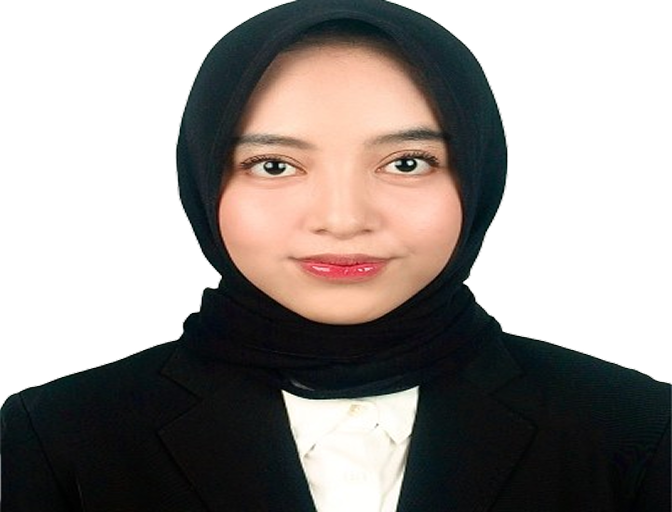
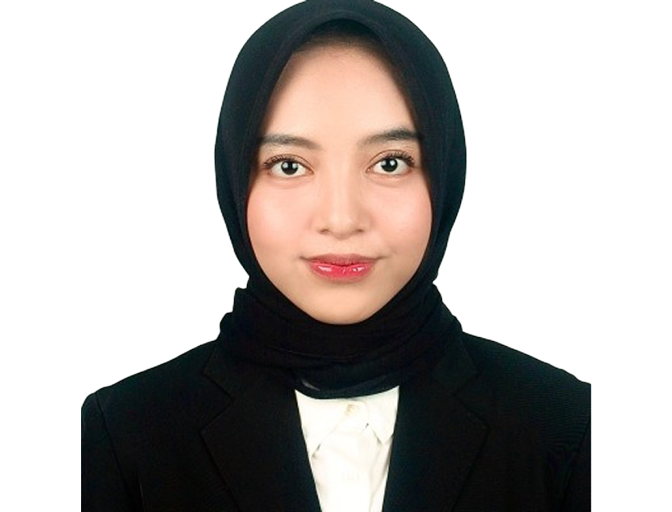
Perbaikan Mobile Page

diff --git a/src/components/home/PublishedAndPartnership.tsx b/src/components/home/PublishedAndPartnership.tsx
@@ -228,10 +228,10 @@ const PublishedAndPartnership: React.FC = () => {
       <div className="hidden md:block">
         <div className="space-y-3">
           <div className="flex flex-col items-center">
-            <h2 className="text-3xl md:text-4xl font-semibold text-[#1E5BA8] font-['Poppins']">
+            <h2 className="text-3xl md:text-4xl font-semibold text-[#262626] font-['Poppins']">
               Partnership With
             </h2>
-            <div className="w-72 h-1 bg-[#AFC6FF] rounded-full mt-2.5"></div>
+            <div className="w-72 h-1 bg-[#474d5d] rounded-full mt-2.5"></div>
           </div>
           <div className="relative overflow-hidden">
             <div className="carousel-container">
@@ -255,10 +255,10 @@ const PublishedAndPartnership: React.FC = () => {
         {false && (
           <div className="space-y-3">
             <div className="flex flex-col items-center">
-              <h2 className="text-3xl font-semibold text-[#1E5BA8] font-['Poppins']">
+              <h2 className="text-3xl font-semibold text-[#262626] font-['Poppins']">
                 Published By
               </h2>
-              <div className="w-52 h-1 bg-[#AFC6FF] rounded-full mt-2.5"></div>
+              <div className="w-52 h-1 bg-[#474d5d] rounded-full mt-2.5"></div>
             </div>
 
             <div className="relative overflow-hidden">
@@ -280,10 +280,10 @@ const PublishedAndPartnership: React.FC = () => {
         {/* Partnership With */}
         <div className="space-y-3">
           <div className="flex flex-col items-center">
-            <h2 className="text-3xl font-semibold text-[#1E5BA8] font-['Poppins']">
+            <h2 className="text-3xl font-semibold text-[#262626] font-['Poppins']">
               Partnership With
             </h2>
-            <div className="w-72 h-1 bg-[#AFC6FF] rounded-full mt-2.5"></div>
+            <div className="w-72 h-1 bg-[#474d5d] rounded-full mt-2.5"></div>
           </div>
           <div className="relative overflow-hidden">
             <div className="carousel-container">

diff --git a/src/components/home/programsection.tsx b/src/components/home/programsection.tsx
@@ -172,8 +172,8 @@ const Section: React.FC<SectionProps> = ({
         customButtonBg || customButtonGradient
           ? ""
           : bgClass === "bg-[#FAFAFA]"
-            ? "bg-[#19499A] text-white"
-            : "bg-white text-[#19499A]"
+            ? "bg-[#262626] text-white"
+            : "bg-white text-[#262626]"
       }
     `}
                 style={{
@@ -374,7 +374,7 @@ const MobileCarousel: React.FC = () => {
                   : "translate-y-4 opacity-0"
               }`}
             >
-              <p className="text-[#19499A] text-base font-medium mb-2 animate-fade-in">
+              <p className="text-[#262626] text-base font-medium mb-2 animate-fade-in">
                 {slide.label}
               </p>
               <h2 className="text-3xl font-extrabold text-gray-900 mb-3 animate-slide-up">
@@ -386,7 +386,7 @@ const MobileCarousel: React.FC = () => {
               <Link href={slide.path}>
                 <button
                   className="text-white px-8 py-3.5 rounded-lg font-semibold transition-all duration-300 text-base w-fit transform hover:scale-105 active:scale-95 hover:shadow-lg"
-                  style={{ backgroundColor: "#19499A" }}
+                  style={{ backgroundColor: "#262626" }}
                 >
                   {slide.buttonText}
                 </button>
@@ -406,7 +406,7 @@ const MobileCarousel: React.FC = () => {
             onClick={() => goToSlide(i)}
             className={`h-2 rounded-full transition-all duration-500 ease-in-out ${
               i === current
-                ? "bg-[#19499A] w-8 shadow-lg"
+                ? "bg-[#262626] w-8 shadow-lg"
                 : "bg-gray-300 w-2 hover:bg-gray-400"
             }`}
             title={`Ke slide ${i + 1}: ${s.title}`}

diff --git a/src/components/home/HeroSection.tsx b/src/components/home/HeroSection.tsx
@@ -20,14 +20,18 @@ export default function HeroSection() {
 
   useEffect(() => {
     if (isPaused) return;
+
     const interval = setInterval(() => {
       setCurrentSlide((prev) => (prev + 1) % heroImages.length);
     }, SLIDE_DURATION);
+
     return () => clearInterval(interval);
   }, [heroImages.length, isPaused]);
 
   useEffect(() => {
-    const timer = setTimeout(() => setIsVisible(true), 100);
+    const timer = setTimeout(() => {
+      setIsVisible(true);
+    }, 100);
     return () => clearTimeout(timer);
   }, []);
 
@@ -70,14 +74,13 @@ export default function HeroSection() {
       {/* ================= MOBILE VIEW (IMAGE ONLY) ================= */}
       <div className="md:hidden">
         <div className="relative rounded-b-[40px] bg-gradient-to-b from-[#CB66E8] to-[#2F184C] overflow-hidden">
-          {/* HERO IMAGE ONLY */}
-          <div className="relative w-full h-[100px]">
+          <div className="relative w-full h-[150px]">
             <Image
               src="/assets/home/hero-section/herosection5.png"
               alt="ProCareer Hero"
               fill
               priority
-              className="object-cover object-top scale-115 mt-2 pl-8"
+              className="object-cover object-top mt-2 pl-8"
             />
           </div>
         </div>
@@ -106,7 +109,7 @@ export default function HeroSection() {
             }`}
           >
             <Image
-              src="/assets/home/hero-section/herosection5.png"
+              src={heroImages[currentSlide]} // Dynamically change image
               alt="Bantu Kamu Cepat Berkarir di Bidang Data & AI"
               width={1600}
               height={900}

diff --git a/src/components/home/mentor.tsx b/src/components/home/mentor.tsx
@@ -67,7 +67,7 @@ const desktopMentorData = [
 const mentorData: MentorData[] = [
   {
     name: "Deva Fitrianti",
-    photo: "/assets/mobile/home/mentor/mentordevafitrianti.png",
+    photo: "/assets/mobile/home/mentor/mentordevaFitrianti.png",
     company: "Unilever",
     companyIcon: "unilever.svg",
     position: "Customer Development",
@@ -75,7 +75,7 @@ const mentorData: MentorData[] = [
   },
   {
     name: "Anis Dewinta",
-    photo: "/assets/mobile/home/mentor/mentoranisdewinta.png",
+    photo: "/assets/mobile/home/mentor/mentoranisDewinta.png",
     company: "Mayora Group",
     companyIcon: "mayoragroup.svg",
     position: "Recruitment & People Organization and Development",
@@ -384,7 +384,7 @@ export default function MentorCarousel() {
               <div
                 key={i}
                 className={`h-2 rounded-full transition-all duration-500 ease-in-out ${
-                  i === currentSlide ? "w-8 bg-[#19499A]" : "w-2 bg-gray-300"
+                  i === currentSlide ? "w-8 bg-[#262626]" : "w-2 bg-gray-300"
                 }`}
               />
             ))}
